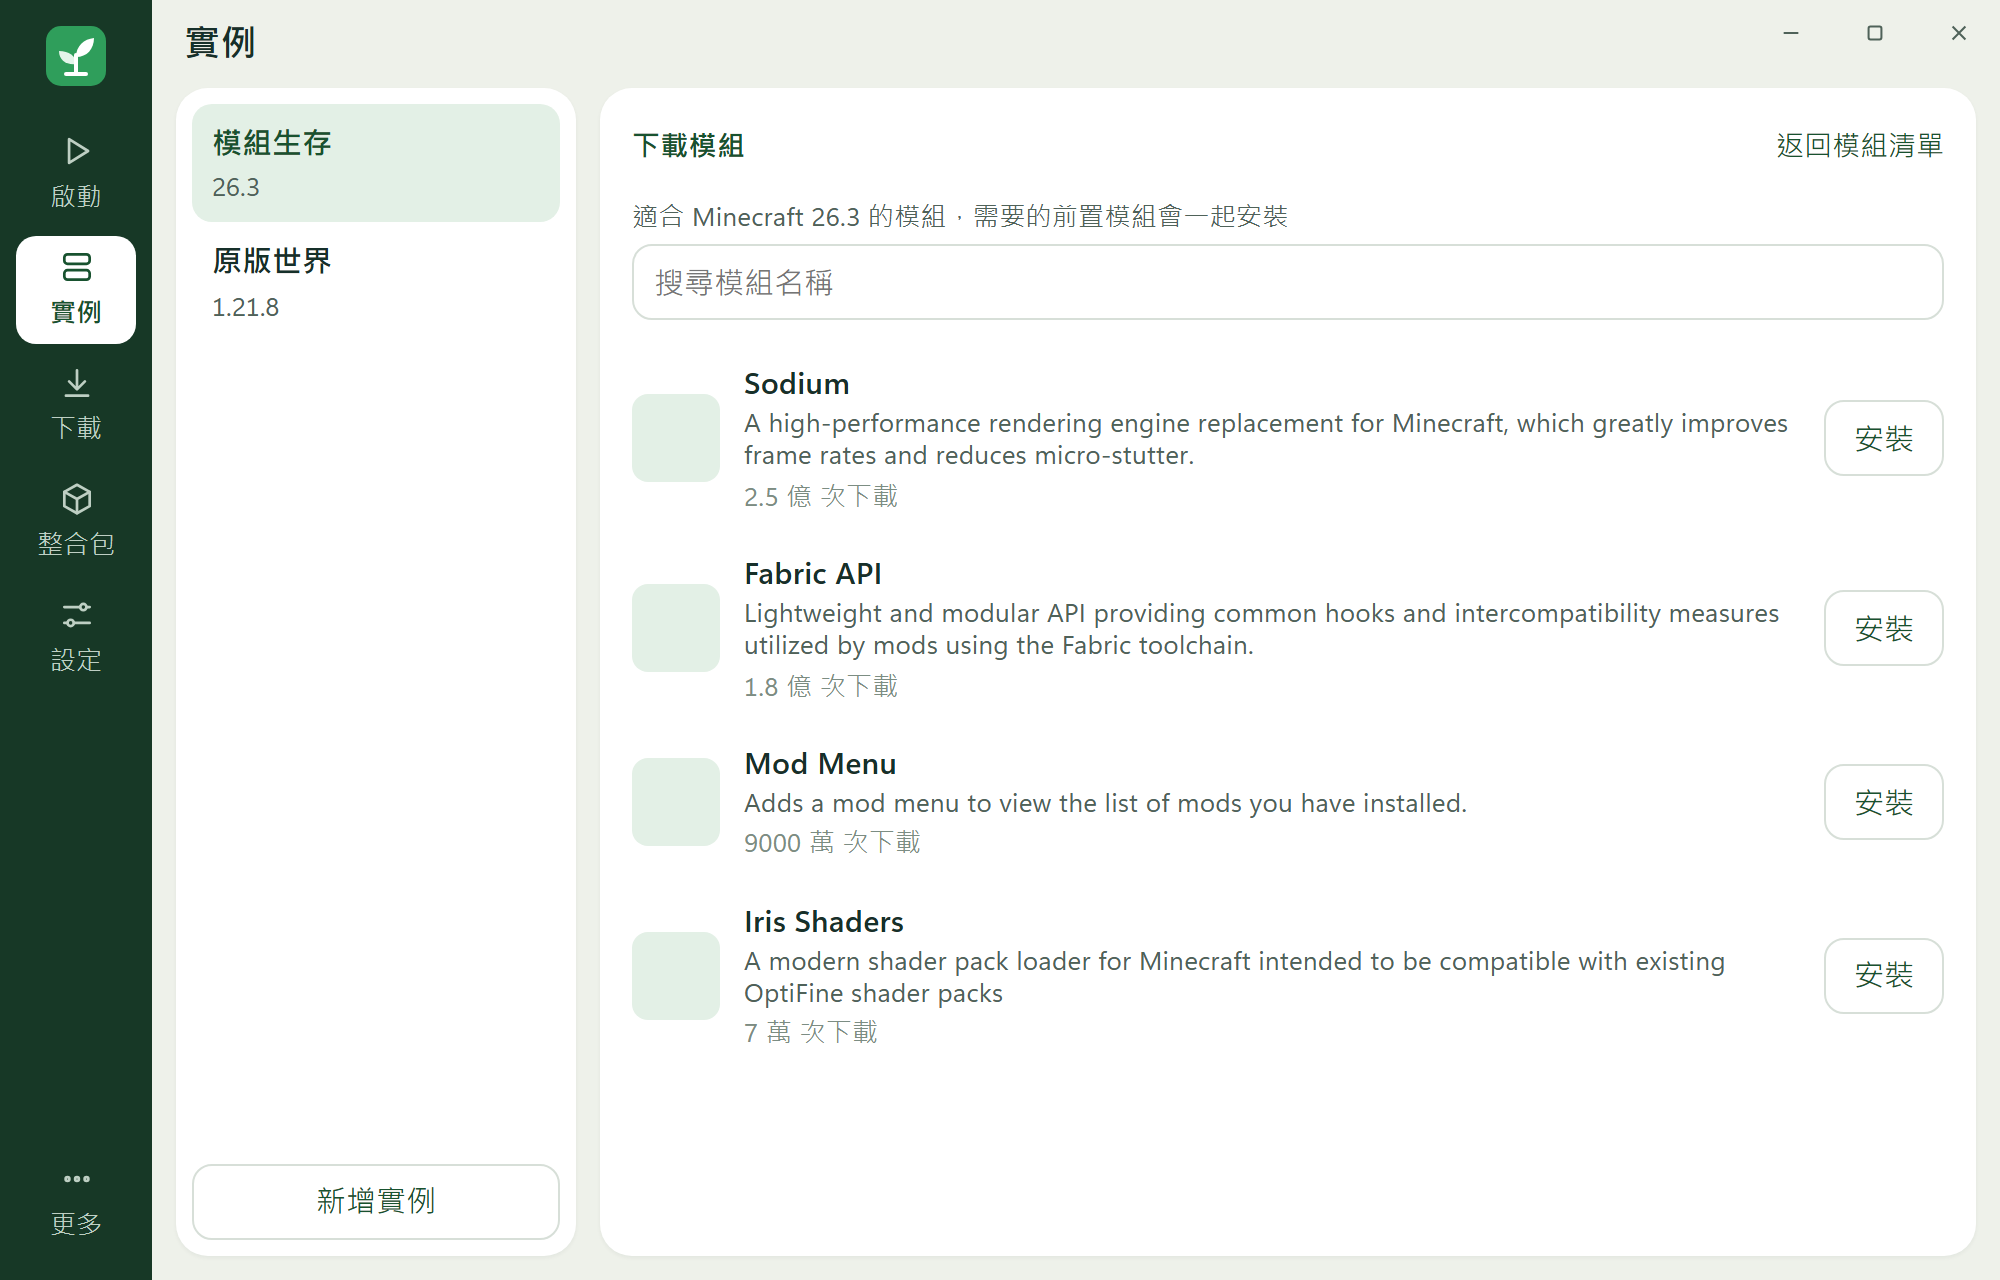
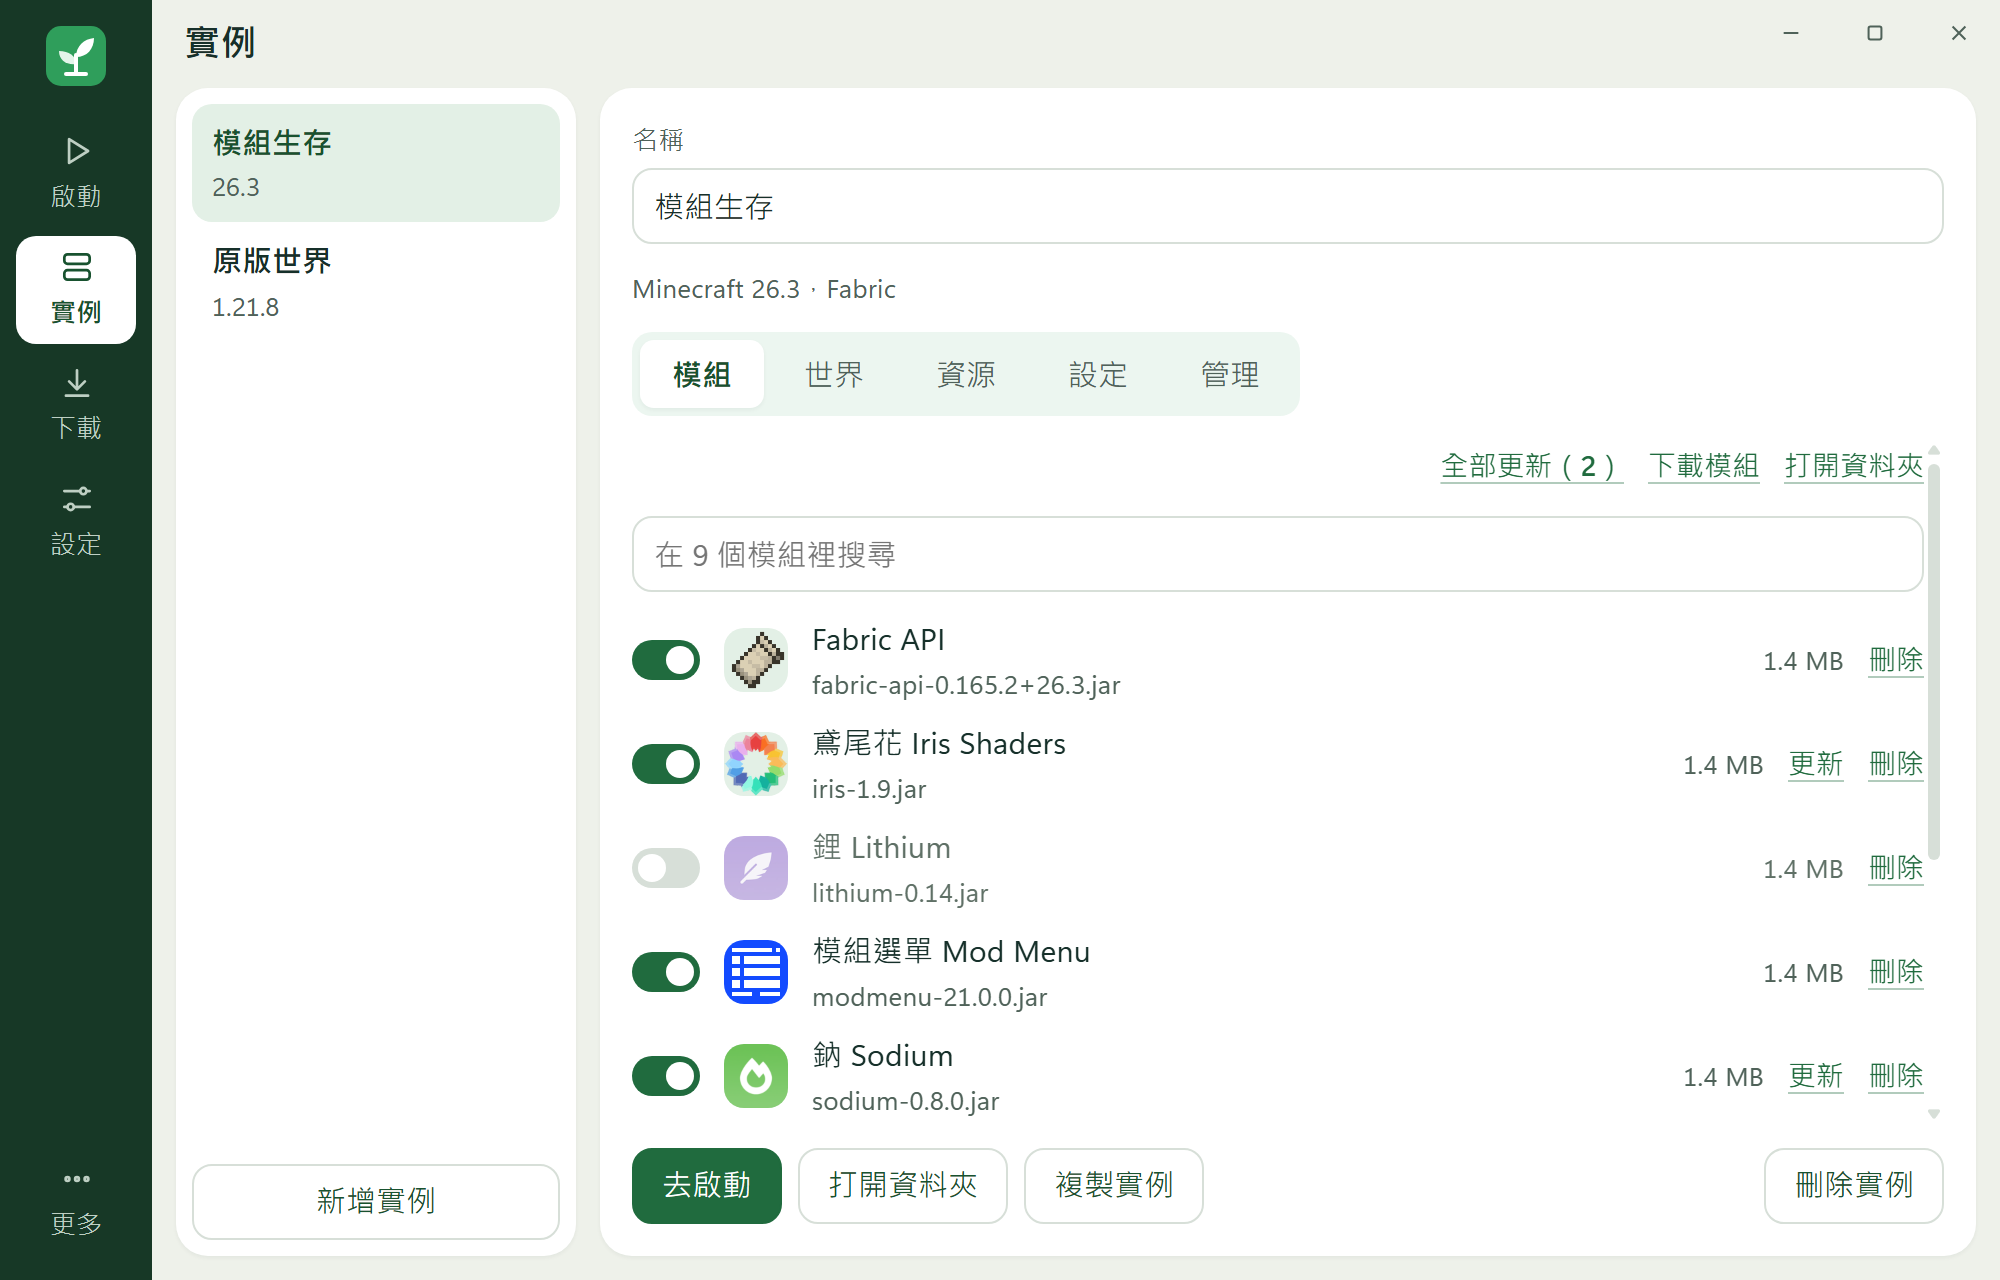
發佈 0.5.0

diff --git a/CHANGELOG.md b/CHANGELOG.md
@@ -2,7 +2,7 @@
 
 版本號規則見 [VERSIONING.md](VERSIONING.md)。
 
-## 未發佈
+## 0.5.0
 
 ### 介面
 
